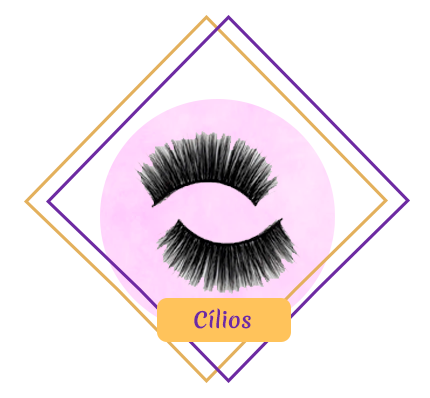
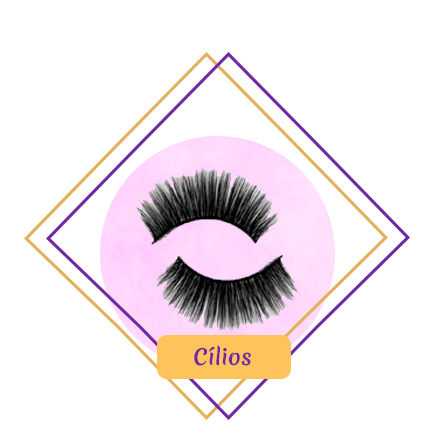
estilizacao
Mudanca nos arquivos de estilizacao Inicio, Style e Cadastro e upload das fotos

Changed region(s): [[0.0605, 0.0302, 0.9674, 0.9648]]

diff --git a/Astra Faux/style/style.css b/Astra Faux/style/style.css
@@ -1,11 +1,10 @@
 body{
     background-color: #f6f7f9;
-    color: #343434;
-    font-family: Merienda Bold;
     max-width: 1200px;
     margin: 0 auto;
     padding: 15px;
 }
+
 
 header{
     display: flex;
@@ -17,6 +16,12 @@ title{
     flex-direction: column;
     line-height: 10px;
 }
+
+.navFont{
+    color: #343434;
+    font-family: Merienda Bold;
+}
+
 li{
      display: inline-block;
      margin:20px;
@@ -45,7 +50,7 @@ p{
     color:#343434;
 }
 img{
-    width: 450px;
+    width: 40%;
     float: right;
 }
 form{
@@ -53,28 +58,79 @@ form{
     flex-direction: column;
     width: 50%;
 }
-form [type="submit"]{
-    height: 50px;
-    width: 50%;
-    background-color: rgb(132, 14, 201);
-    color: white;
-    font-weight: bold;
-}
-form [type="submit"]{
-    cursor:pointer
-}
-span{
+
+
+.newConta{
+    color: #f8b122;
     font-family: arial;
-    font-size: 12px;
-    padding: 10px; 
+    font-size: 80%;
+    padding: 1%; 
 }
+
+.newConta:hover{
+    color: #ececec;
+    transform: scale(1.05);
+    
+}
+
+.login{
+    color:rgb(245, 245, 245);
+}
+
 input{
     margin-top: 20px;
-    height: 20px;
+    height: 20%;
+    width: 130%;
     padding: 15px;
     border-radius: 20px;
     border: none;
     font-size: 15px;
+    
+}
+
+.entrar{
+    height: 50px;
+    width: 80%;
+    background-color:#e6ac38;
+    border-radius: 20px;
+    color: rgb(34, 34, 34);
+    font-weight: bold;
+    font-family: arial;
+    font-size: 90%;
+    margin-left: 40%;
+    border: none;
+    cursor: pointer;
+    margin-top: 15px;
+}
+
+.entrar:hover{
+    transform: scale(1.05);
+}
+
+.caixaLogin{
+    background-color:rgb(132, 14, 201);
+    width: 30%;
+    height: 63%;
+    border-radius: 20px;
+    position: fixed;
+
+}
+
+.conteudoLogin{
+    margin-top: 9%;
+    margin-left: 20%;
+}
+
+.formTitulo{
+    color: #f8b122;
+    font-family: Merienda Bold;
+    font-size: 200%;
+}
+
+.formulario{
+    color: #f8b122;
+    display: flex;
+    margin-right: 60%;
 }
 
 
@@ -84,28 +140,72 @@ input{
     header{
         flex-direction: column;
     }
+
     main{
         flex-direction: column;
     }
+
     h2{
         font-size: 38px;
         text-align: center;
     }
+
     form{
         margin: 0 auto;
         width: 100%;
     }
+
     input{
-        align-self: center;
+        margin-top: 20px;
+        height: 20%;
+        width: 70%;
+        padding: 15px;
+        border-radius: 20px;
+        border: none;
+        font-size: 15px;
     }
+
     img{
-        width: 360px;
+        margin-top: 6%;
+        width: 40%;
     }
+
     ul{
         text-align: center;
     }
+
     span{
         text-align: center;
     }
+
+    .caixaLogin{
+        background-color:rgb(132, 14, 201);
+        width: 50%;
+        height: 60%;
+        border-radius: 20px;
+        position: fixed;
+    
+    }
+    
+    .conteudoLogin{
+        margin-top: 5%;
+        margin-left: 15%;
+        height: 20%;
+    }
+
+    .formTitulo{
+        color: #f8b122;
+        font-family: Merienda Bold;
+        font-size: 170%;
+        margin-right: 15%;
+    }
+
+    .formulario{
+        color: #f8b122;
+        display: flex;
+        margin-right: 60%;
+    }
+
+
 }
 

diff --git a/Astra Faux/style/inicio.css b/Astra Faux/style/inicio.css
@@ -83,7 +83,7 @@ section {
 .inf{
     display: inline-block;
     font-family: Merienda Bold;
-    font-size: 25px;
+    font-size: 210%;
     text-align: center;
     margin-right: 85px;
     color: #f8f8f8;
@@ -98,7 +98,7 @@ h6{
 
 .subtitulo{
     font-family: Merienda light;
-    font-size: 20px;
+    font-size: 70%;
 }
 
 .login{
@@ -115,7 +115,7 @@ h6{
 
 footer {
     position: absolute;
-    margin-top: 250px;
+    bottom: 0;
     width: 100%;
     height: 70px; 
     background-color: #f5f5f5;

diff --git a/Astra Faux/style/cadastro.css b/Astra Faux/style/cadastro.css
@@ -32,6 +32,8 @@ form{
 }
 
 
+
+
 /* Aqui fica responsivo*/
 
 @media screen and (max-width: 760px){
